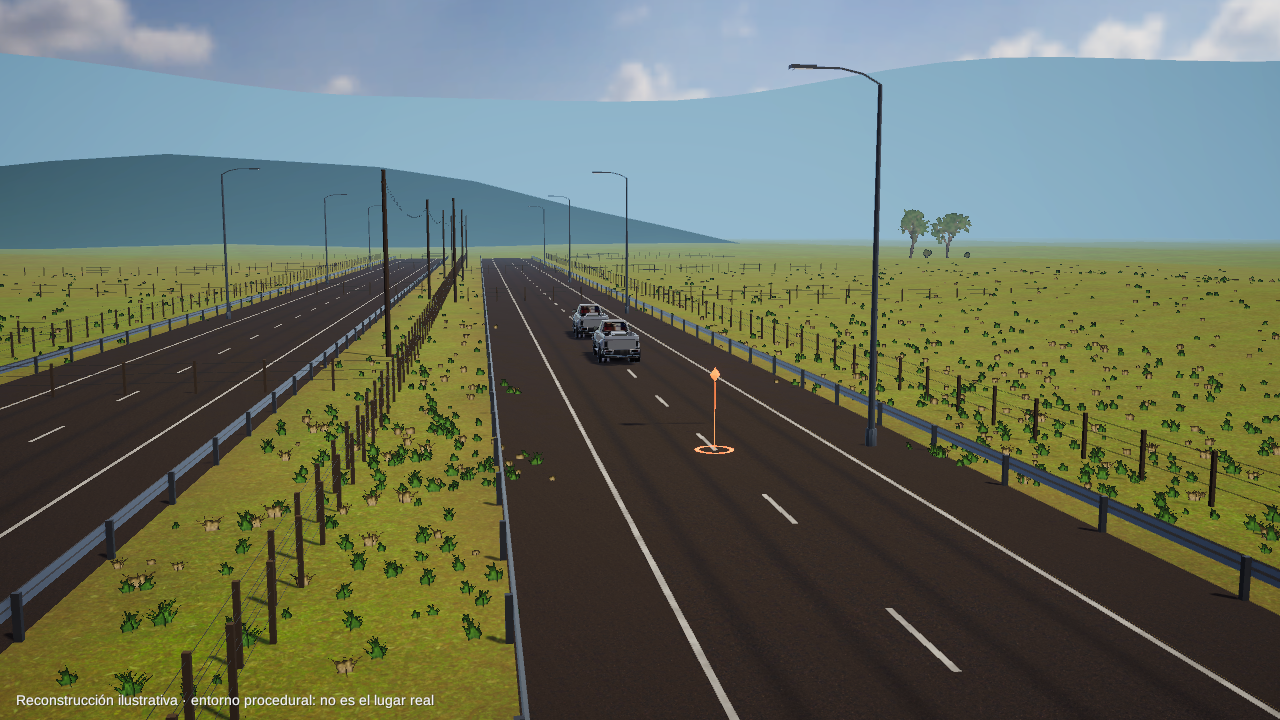
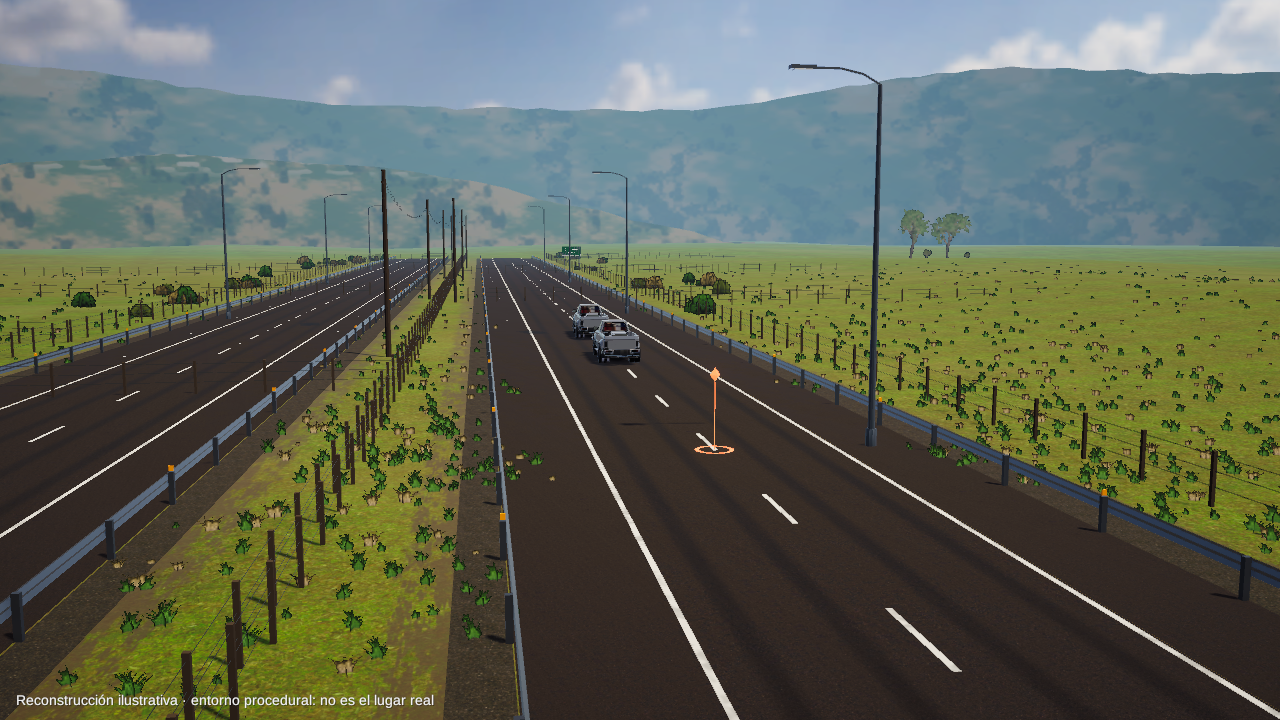
feat(u2): bake the hill textures at prepare time, publish the build and the 20 side-by-side captures (point 5 closed)
Generating one hill texture per layer at case load cost about 0.45 s per layer on WebGL (AXA case load 3.3 -> 5.1 s). Two textures (near and far) are now baked by PrepararEscenario; case load back to 3.4 s (AXA) and 4.3 s (urban). Build 64.9 MB, urban night 23.3-25 fps. Published to Blob as c10ac1849189d3d7.

diff --git a/apps/visor-unity/Assets/Croquis/Visor/Materiales.cs b/apps/visor-unity/Assets/Croquis/Visor/Materiales.cs
@@ -488,31 +488,48 @@ namespace Croquis.Visor
             return m;
         }
 
+        /// <summary>Los dos tamaños de la textura de ladera: (ancho que cubre, alto nominal) en metros.</summary>
+        public static Vector2 MedidasLadera(bool lejos) => lejos ? new Vector2(200f, 110f) : new Vector2(90f, 45f);
+
         /// <summary>
-        /// La ladera de una capa de cerros: pasto y tierra en manchas, matorral y árboles como puntos
-        /// oscuros (más en las cañadas y abajo), y roca clara cerca de la cresta. `metrosPorRepeticion`
-        /// es lo que mide la textura a lo ancho; a lo alto cubre de la base a la cresta. Cuanto más
-        /// lejos (`lejos` de 0 a 1), más se funde con el `aire`.
+        /// La textura de ladera de las capas cercanas o lejanas, horneada por `PrepararEscenario`: generarla
+        /// al cargar el caso costaba casi medio segundo por capa en WebGL (medido el 2026-11-10).
         /// </summary>
-        public static Texture2D Ladera(int capa, float metrosPorRepeticion, float altoM, float lejos, Color aire, bool noche)
+        public static Texture2D Ladera(bool lejos)
         {
-            var n = Calidad.Media ? 256 : 512;
-            var nombre = "ladera_" + capa + "_" + n + "_" + (noche ? "n" : "d");
+            var nombre = "cerros/ladera_" + (lejos ? "lejos" : "cerca");
             if (Texturas.TryGetValue(nombre, out var t))
             {
                 return t;
             }
 
-            var semilla = 1500 + capa * 31;
+            t = Resources.Load<Texture2D>(nombre);
+            if (t == null)
+            {
+                throw new System.InvalidOperationException("Falta la textura «" + nombre + "». Corre «Croquis/Preparar proyecto».");
+            }
+
+            t.wrapModeU = TextureWrapMode.Repeat;
+            t.wrapModeV = TextureWrapMode.Clamp;
+            Texturas[nombre] = t;
+            return t;
+        }
+
+        /// <summary>
+        /// Pinta una ladera de `n` × `n`: pasto y tierra en manchas, manchas de monte de forma irregular
+        /// (más abajo y en las cañadas) y roca clara cerca de la cresta. A lo ancho cubre `metrosPorRepeticion`
+        /// y se repite sin costura; a lo alto va de la base (v = 0) a la cresta (v = 1) de una capa de
+        /// `altoM`. El velo del aire lo pone la niebla de la escena.
+        /// </summary>
+        public static Color[] PintarLadera(int n, float metrosPorRepeticion, float altoM, int semilla)
+        {
             // Manchas de unos 9 m; el ruido se repite a lo ancho y a lo alto se estira a escala.
             var celdasMonte = Mathf.Max(3, Mathf.RoundToInt(metrosPorRepeticion / 9f));
             var aspecto = altoM / metrosPorRepeticion;
-
             var pasto = new Color(0.27f, 0.31f, 0.16f);
             var seco = new Color(0.47f, 0.4f, 0.26f);
             var monte = new Color(0.13f, 0.17f, 0.08f);
             var roca = new Color(0.5f, 0.47f, 0.42f);
-            t = new Texture2D(n, n, TextureFormat.RGBA32, true) { name = nombre, wrapModeU = TextureWrapMode.Repeat, wrapModeV = TextureWrapMode.Clamp };
             var px = new Color[n * n];
             for (var j = 0; j < n; j++)
             {
@@ -537,17 +554,11 @@ namespace Croquis.Visor
                     c = Color.Lerp(c, monte * sombra, arbol * 0.62f);
                     var risco = Paso(0.72f, 0.95f, v) * Paso(0.55f, 0.75f, Ruido(u, v, 21, semilla + 4));
                     c = Color.Lerp(c, roca, risco * (1f - arbol));
-                    // Abajo, la ladera se vela más con el aire (perspectiva atmosférica en la base).
-                    // La niebla de la escena ya vela los cerros; aquí solo un poco más a las capas lejanas.
-                    var velo = Mathf.Lerp(0f, noche ? 0.1f : 0.18f, lejos) * Mathf.Lerp(1.15f, 0.85f, v);
-                    px[j * n + i] = Color.Lerp(c, aire, Mathf.Clamp01(velo));
+                    px[j * n + i] = c;
                 }
             }
 
-            t.SetPixels(px);
-            t.Apply(true, true);
-            Texturas[nombre] = t;
-            return t;
+            return px;
         }
 
         private static Material ConMancha(string llave, string baseMat, Texture2D tex, Color color)

diff --git a/apps/visor-unity/Assets/Croquis/Visor/EntornoVista.cs b/apps/visor-unity/Assets/Croquis/Visor/EntornoVista.cs
@@ -731,12 +731,9 @@ namespace Croquis.Visor
         private static void Horizonte(Transform padre, EntornoEscenario en, AmbienteEscenario a, long semilla)
         {
             // Cada capa es una ladera con pendiente (la luz del sol la modela) y textura de pasto, tierra,
-            // monte y roca. Cuanto más lejos, más se funde con el aire: la perspectiva atmosférica.
-            // De noche la alumbra la luna como al resto del campo: es una ladera oscura que se lee
-            // contra el cielo, no una silueta negra.
-            // De noche el «aire» es un gris azulado claro: con la luna encima queda una ladera oscura
-            // pero con textura; con el azul casi negro del cielo, los cerros lejanos salían negros.
-            var aire = a.Noche ? new Color(0.17f, 0.18f, 0.22f) : Color.Lerp(RenderSettings.fogColor, new Color(0.55f, 0.66f, 0.75f), 0.35f);
+            // monte y roca. La niebla de la escena la funde con el aire cuanto más lejos está. De noche
+            // la alumbra la luna como al resto del campo: es una ladera oscura que se lee contra el
+            // cielo, no una silueta negra.
             var azar = new Azar(semilla + 503);
             for (var i = 0; i < en.Cerros.Length; i++)
             {
@@ -778,7 +775,8 @@ namespace Croquis.Visor
 
                 crestas.Add(((float)c.HastaRad, (float)c.AlturasM[n - 1] * escala));
                 var m = new Malla();
-                var repeticion = Mathf.Max(60f, maximo + 6f) * 1.6f;
+                var lejana = r0 > 450f;
+                var repeticion = Materiales.MedidasLadera(lejana).x;
                 // Cuatro hileras de la base (abajo del piso, más cerca) a la cresta (más lejos).
                 var filas = new[] { 0f, 0.3f, 0.65f, 1f };
                 var recorrido = 0f;
@@ -811,8 +809,7 @@ namespace Croquis.Visor
                     }
                 }
 
-                var lejos = Mathf.InverseLerp(400f, 1100f, r0);
-                var textura = Materiales.Ladera(i, repeticion, maximo + 6f, lejos, aire, a.Noche);
+                var textura = Materiales.Ladera(lejana);
                 var mat = new Material(Materiales.Liso(Color.white, 0.02f)) { name = "cerros_" + i };
                 mat.SetTexture("_BaseMap", textura);
                 m.Poner(padre, "cerros_" + i, mat, false, false);

diff --git a/apps/visor-unity/Assets/Croquis/Editor/PrepararEscenario.cs b/apps/visor-unity/Assets/Croquis/Editor/PrepararEscenario.cs
@@ -47,6 +47,8 @@ namespace Croquis.EditorTools
                 Cielo(c);
             }
 
+            Laderas();
+
             Posproceso();
             AssetDatabase.SaveAssets();
         }
@@ -235,6 +237,32 @@ namespace Croquis.EditorTools
             m.SetOverrideTag("RenderType", "TransparentCutout");
             m.renderQueue = (int)RenderQueue.AlphaTest;
             Guardar(m, "arbol_" + especie + "_" + vista);
+        }
+
+        /// <summary>
+        /// Hornea las dos texturas de ladera de los cerros (cercana y lejana) como PNG de recursos. Solo
+        /// reescribe el archivo si cambió, para no reimportarlo en cada preparación.
+        /// </summary>
+        private static void Laderas()
+        {
+            const int N = 512;
+            foreach (var lejos in new[] { false, true })
+            {
+                var medidas = Croquis.Visor.Materiales.MedidasLadera(lejos);
+                var px = Croquis.Visor.Materiales.PintarLadera(N, medidas.x, medidas.y, lejos ? 1531 : 1500);
+                var png = ImageConversion.EncodeArrayToPNG(
+                    System.Array.ConvertAll(px, c => (Color32)c),
+                    UnityEngine.Experimental.Rendering.GraphicsFormat.R8G8B8A8_SRGB,
+                    N,
+                    N);
+                var ruta = "Assets/Croquis/Recursos/Resources/cerros/ladera_" + (lejos ? "lejos" : "cerca") + ".png";
+                Directory.CreateDirectory(Path.GetDirectoryName(ruta));
+                if (!File.Exists(ruta) || !File.ReadAllBytes(ruta).AsSpan().SequenceEqual(png))
+                {
+                    File.WriteAllBytes(ruta, png);
+                    AssetDatabase.ImportAsset(ruta, ImportAssetOptions.ForceUpdate);
+                }
+            }
         }
 
         private static void Cielo(string nombre)

diff --git a/apps/visor-unity/Assets/Croquis/Editor/ImportarRecursos.cs b/apps/visor-unity/Assets/Croquis/Editor/ImportarRecursos.cs
@@ -37,6 +37,14 @@ namespace Croquis.EditorTools
                 return;
             }
 
+            if (assetPath.Contains("/cerros/"))
+            {
+                // Se repiten a lo ancho de la ladera; a lo alto van de la base a la cresta.
+                t.wrapModeU = TextureWrapMode.Repeat;
+                t.wrapModeV = TextureWrapMode.Clamp;
+                t.maxTextureSize = 512;
+            }
+
             t.crunchedCompression = true;
             t.compressionQuality = 70;
             t.textureCompression = TextureImporterCompression.Compressed;

diff --git a/docs/progress/U.md b/docs/progress/U.md
@@ -4,11 +4,8 @@ Plan: `docs/cesvi/PLAN-CESVI.md` §3.3. Reglas: `CLAUDE.md`. ADR del bloque 0110
 
 ## Estado
 
-- **Fase actual:** U2 (escenario), segunda pasada, en el orden que fijó René el 2026-11-09: 1 luz y color, 2 calle mexicana, 3 suelo y desgaste, 4 árboles, 5 autopista y cerros.
-- **Hecho:** los puntos 1, 2 y 3, y las notas de René sobre el punto 2 (relieve y desgaste de fachadas, sin rayas de orilla en calles de colonia).
-- **Hecho también:** el perfil «media» para WebGL (la parte de U5 que pidió la regla de fps de René). La noche urbana volvió a quedar arriba de 12 fps.
-- **Retomado el 2026-11-09,** cuando René cerró todo: el build de verificación confirmó las matas, los faros y las gotas en WebGL (abajo). Rama `feat/u2-arboles`.
-- **En curso:** el punto 5 (autopista y cerros). **Después:** publicar en Blob y las 20 capturas lado a lado.
+- **Fase actual:** U2 (escenario), segunda pasada **terminada** (los 5 puntos en el orden que fijó René el 2026-11-09). Build publicado en Blob (huella `c10ac1849189d3d7`) y las 20 capturas lado a lado en `docs/cesvi/u2/segunda-pasada/lado-a-lado/`. Rama `feat/u2-arboles`, PR a `main`.
+- **Siguiente:** W4 y W4b (René, 2026-11-10). Antes de W5, W8 o una parte complicada de U5, detenerse y avisar a René con «Listo para W5: cambia el modelo».
 - **Unity y Blender corren en segundo plano** desde el 2026-11-10: René reabrió la sesión con `CLAUDE_CODE_DISABLE_BG_SHELL_PRESSURE_REAP=1`. Sigue la regla de un solo proceso pesado a la vez.
 - **Cómo se itera:** capturas del Editor en modo batch (`Capturas.Tomar`, unos 3 min). En esta sesión no hubo herramientas del MCP de Unity. Un build WebGL solo al cerrar cada punto.
 
@@ -76,6 +73,63 @@ La meta está en `docs/cesvi/PLAN-CESVI.md` §3.3. Decisiones: ADR 0112 (el esce
 - **La noche urbana bajó de 12 fps:** el cruce de noche da de 10.9 a 11.1 fps (antes 12.7). Se activa la regla de René: primero rendimiento, después más detalle.
 - **Este build tardó 74 min** porque la laptop estuvo suspendida a la mitad; los demás tardan de 5 a 8 min.
 - **Una prueba del contrato falló una vez por tiempo** (5.8 s con límite de 5 s) con la laptop cargada; sola pasa. Se confirma en CI.
+
+### Resumen para René (segunda pasada, 2026-11-10)
+
+**Qué quedó.** Los 5 puntos de la segunda pasada, en tu orden: luz y color, calle mexicana, suelo y desgaste, árboles y autopista con cerros. Las 20 capturas WebGL nuevas están junto a las del 2026-11-09 en `docs/cesvi/u2/segunda-pasada/lado-a-lado/` (antes a la izquierda, después a la derecha). Las nuevas, solas, están en `despues/`.
+
+**Cómo probarlo.** `https://croquis-sage.vercel.app/visor-unity/medir.html` abre el build publicado (huella `c10ac1849189d3d7`) con AXA.
+
+**Cifras** (build WebGL con la laptop libre, perfil «media»):
+
+- **Peso:** 64.9 MB (31.2 MB con Brotli). Antes de la segunda pasada eran 61 MB (27.4). Los 3.9 MB de más son los atlas de los árboles a tamaño completo.
+- **Arranque:** 14.2 s, antes 13. AXA carga en 3.4 s más y el cruce urbano en 4.3 s.
+- **Fps:** la noche urbana queda en 23.3 a 25 fps a 1600 × 900, arriba de tus 12. Ninguna escena baja de 22.2.
+
+**Qué necesito de ti.** Que veas las capturas lado a lado y me marques lo que no llegue a la vara.
+
+### Segunda pasada · punto 5: autopista y cerros (2026-11-10)
+
+El detalle está en ADR 0113, «Autopista y cerros».
+
+- **Autopista** (solo cuando la vía trae acotamiento):
+  - orilla de grava y tierra suelta fuera del acotamiento;
+  - vialetas sobre las rayas (una en cada espacio de las discontinuas y una cada 12 m en las continuas);
+  - reflejante ámbar en uno de cada tres postes de la defensa;
+  - fantasmas donde no hay defensa;
+  - un tablero verde genérico por sentido, sin texto, entre 90 y 150 m adelante del hecho;
+  - matorrales a la orilla en tres follajes.
+- **No hay vehículos inventados.** Nada de esto cae dentro del claro del hecho.
+- **Cerros:**
+  - ladera con pendiente y textura de pasto, tierra, monte y roca;
+  - de noche se leen como laderas oscuras, ya no como silueta negra;
+  - las dos texturas se hornean al preparar el proyecto.
+- **Encontrado en el camino:**
+  - **Niebla:** la de URP es global y no se apaga desde el material; por eso los cerros lejanos salían azules de día y negros de noche. Las capas lejanas se acercan, escaladas para conservar su tamaño aparente.
+  - **`Mathf.SmoothStep`:** no es el `smoothstep` de los sombreadores, y las texturas de desgaste de los puntos 1 a 3 salían como cuadros parejos. Se corrigieron todas. La raya gastada solo se aclara: con huecos, una raya continua se leía discontinua.
+- **Carga:**
+  - En el primer build del punto 5, la carga del caso subió de 3.3 a 5.1 s en AXA y de 4.1 a 6.6 s en el cruce urbano. La causa era que las texturas de los cerros se generaban al cargar, una por capa.
+  - Horneadas, la carga quedó en 3.4 y 4.3 s.
+  - En ese primer build los fps también bajaron (cruce urbano de día, de 28 a 19-20). La medición empezó justo al terminar el build, con la laptop caliente: tras 4 min de pausa volvieron a su nivel.
+- **Capturas:** `docs/cesvi/u2/puntos/p5-autopista/` (Editor).
+- **Medido** (`eval/results/unity_build.json`, `unity_build_urbana.json` y `docs/cesvi/u2/segunda-pasada/fps-web.json`):
+  - Peso: 64.9 MB, arranque 14.2 s.
+  - A 1280 × 720: 43.5 fps en AXA de día y 42.6 en el cruce urbano de día.
+  - Build: 11 min (la laptop se suspendió a la mitad), pico de Unity 1,924 MB y mínimo libre 667 MB.
+- **Fps a 1600 × 900, con la laptop libre:**
+
+| Escena                       | Punto 4     | Punto 5     |
+| ---------------------------- | ----------- | ----------- |
+| `axa-dia`                    | 30.3        | 30.3        |
+| `axa-noche`                  | 21.7 a 22.7 | 22.2        |
+| `carambola-dia`              | 27 a 27.8   | 30.3        |
+| `carambola-noche`            | 27.8        | 27          |
+| `lateral_interseccion-dia`   | 27.8 a 29.4 | 27          |
+| `lateral_interseccion-noche` | 19.6 a 20.8 | 23.3 a 25   |
+| `nocturno_lluvia-dia`        | 27 a 28.6   | 32.3 a 33.3 |
+| `nocturno_lluvia-noche`      | 22.7 a 23.3 | 27 a 27.8   |
+| `terraceria-dia`             | 26.3        | 30.3        |
+| `terraceria-noche`           | 22.7        | 24.4 a 25   |
 
 ### Segunda pasada · punto 4: árboles como impostores (2026-11-10)
 
@@ -221,7 +275,10 @@ Con `CLAUDE_CODE_DISABLE_BG_SHELL_PRESSURE_REAP=1` y sin nada más abierto, todo
 
 ### Falta de U2
 
-- La segunda pasada de calidad, con la lista de «Lo que no convence todavía».
+- Lo que René marque de las 20 capturas de la segunda pasada.
+- Rampas en las esquinas de las banquetas y juntas marcadas (hoy solo las da la textura): quedó del punto 2.
+- Las vialetas miden lo de verdad (10 cm): de noche se ven cerca de la cámara, pero a más de 30 m no.
+- Los impostores cambian de vista cada 45°: se nota solo al orbitar despacio junto a un árbol. Mezclar vistas pide un sombreador propio (U5).
 - La red vial de OpenStreetMap: el escenario ya la toma si la escena la trae, pero ninguna de las 5 escenas la trae y no se ha visto.
 - Medir Blob y dejar solo los 2 últimos builds (hoy hay uno publicado, el de U1).
 - Las pruebas EditMode del escenario dentro de Unity.

diff --git a/docs/adr/0113-recursos-y-materiales-del-escenario.md b/docs/adr/0113-recursos-y-materiales-del-escenario.md
@@ -58,3 +58,19 @@ Las tres tarjetas cruzadas se notaban de cerca: una costura al centro de la copa
 - **Desde arriba** (más de 58° de elevación, o la cámara cenital) el cuadro se pliega y queda la tarjeta de planta, que es la vista real del árbol desde arriba.
 - **Por qué no impostores octaédricos.** Piden un sombreador propio que mezcle tres vistas por píxel. Con 8 vistas a nivel del suelo y la planta se cubre lo que el perito ve (acera, cinematográfica, conductor, cenital) sin ese riesgo en WebGL. El salto entre vistas es de 45° y se nota solo al orbitar despacio junto a un árbol.
 - **El atlas entra a tamaño completo también en WebGL.** A la mitad, un árbol visto desde la acera se veía en manchas.
+
+## Autopista y cerros (segunda pasada de U2, punto 5; 2026-11-10)
+
+- **Solo si la vía trae acotamiento** (`CarreteraVista`). Todo sale de la geometría que ya calculó TS y de la semilla de la escena, nada es dato del caso y nada cae dentro del claro del hecho.
+- **Orillas.** Las aristas de borde del acotamiento que tienen la calzada hacia adentro y no hacia afuera son orillas exteriores; si del otro lado hay otra calzada a menos de 40 m, la orilla da a la mediana. Afuera de cada una va una franja de grava de 0.95 m y, más afuera, tierra suelta que se pierde en el pasto.
+- **Vialetas.** Las rayas vienen en piezas de 1 m. Se juntan por línea (mismo eje a menos de 15 cm, a menos de 14 m) y se recorren en orden: en las discontinuas va una vialeta en medio de cada espacio y, en las continuas, una cada 12 m. De noche su reflejante pasa el umbral del resplandor.
+- **Defensa y fantasmas.** La defensa ya era continua; ahora lleva un reflejante ámbar sobre uno de cada tres postes (cada 12 m). Donde no hay defensa van fantasmas cada 20 m: poste blanco, banda negra y reflejante.
+- **Señalamiento genérico.** Un tablero verde por sentido, entre 90 y 150 m adelante del hecho y a la derecha de quien maneja, con orla, una flecha y franjas blancas. No lleva texto: un nombre de lugar o un límite de velocidad inventados se leerían como datos del sitio, y en un dictamen eso importa.
+- **Matorrales.** Tarjetas cruzadas de 0.9 a 2.3 m, en tres follajes (verde, olivo y seco), de 3 a 14 m afuera del acotamiento y a veces en grupo. Usan el material base de las matas, que ya trae su variante de sombreador para WebGL.
+- **Cerros.** Cada capa es una ladera con pendiente (cuatro hileras de la base a la cresta), con textura procedural de pasto, tierra, manchas de monte que se juntan en las cañadas y roca cerca de la cresta. De noche la alumbra la luna como al resto del campo.
+- **Las texturas de ladera se hornean al preparar el proyecto** (`PrepararEscenario.Laderas`): una para las capas cercanas y otra para las lejanas, de 512 px. Generarlas al cargar el caso, una por capa, subía la carga del caso de AXA de 3.3 a 5.1 s y la del cruce urbano de 4.1 a 6.6 s en WebGL (medido con `eval/unity_build.mjs` el 2026-11-10).
+- **La niebla de URP es global.** Apagar `FOG_EXP2` en el material no la quita: es una palabra clave global que pone la canalización en cada cuadro. Por eso los cerros a 720 y 1,100 m salían del color del aire: azules de día y negros de noche. Las capas a más de 450 m se acercan a menos de 530 m, escaladas para conservar su altura aparente; dentro de la escena la diferencia de paralaje no se nota.
+
+### `Mathf.SmoothStep` no es el `smoothstep` de los sombreadores
+
+`Mathf.SmoothStep(desde, hasta, t)` interpola entre `desde` y `hasta`. No es una rampa de 0 a 1 entre dos bordes. Las texturas de desgaste de los puntos 1 a 3 lo usaban como rampa, y por eso salían como cuadros parejos: una mancha de aceite era un cuadro semitransparente, y en un visor forense un cuadro oscuro en la vía se puede tomar por evidencia. Todas usan ahora `Paso`, el `smoothstep` de verdad. La raya gastada solo se aclara, de 62 % a 100 %: con huecos de verdad, una raya continua se leía discontinua.

diff --git a/docs/PROGRESS.md b/docs/PROGRESS.md
@@ -6,6 +6,10 @@ Reglas de trabajo: `CLAUDE.md`. Especificación: `PLAN.md`.
 ## Estado actual
 
 - **Ahora: plan final v4** (René, 2026-11-07; `docs/cesvi/PLAN-CESVI.md`). CESVI pidió el 3D en Unity, puntos intermedios del choque, objetos que se mueven y un terreno que afecta la física. Trabajan dos frentes en paralelo, con bitácora propia: [`docs/progress/U.md`](progress/U.md) y [`docs/progress/W.md`](progress/W.md). Este archivo queda como índice, y lo que sigue abajo es historia del plan v3 (`docs/historial/PLAN-CESVI-v3.md`).
+  - **U2, segunda pasada del escenario Unity (2026-11-10):**
+    - **Qué cambió:** los 5 puntos (luz, calle mexicana, suelo, árboles impostores, autopista y cerros) están en `main`.
+    - **Dónde está el detalle:** el resumen y las cifras, en [`docs/progress/U.md`](progress/U.md); las 20 capturas lado a lado, en `docs/cesvi/u2/segunda-pasada/lado-a-lado/`.
+    - **Siguiente:** W3 ya está en `main` (#192), y siguen W4 y W4b.
   - **Resumen para René (U-pre, #181, en producción):**
     - **Qué quedó:** AXA abre con su escena colocada y da siempre lo mismo que `eval/results`: V2 71.56 km/h (68.02–92.81), +8.41 km/h y +13.32 % contra 63.15. Ese número es el mismo en Reconstrucción, Contra CESVI, Presentar, el dictamen y el PDF. La mediana (75.2) queda como dato secundario con su nombre, y el histograma marca el mejor ajuste.
     - **Cómo probarlo:** en https://croquis-sage.vercel.app/cesvi abre AXA, ve a Reconstrucción, pulsa «Reconstruir» y sigue hasta Contra CESVI.
